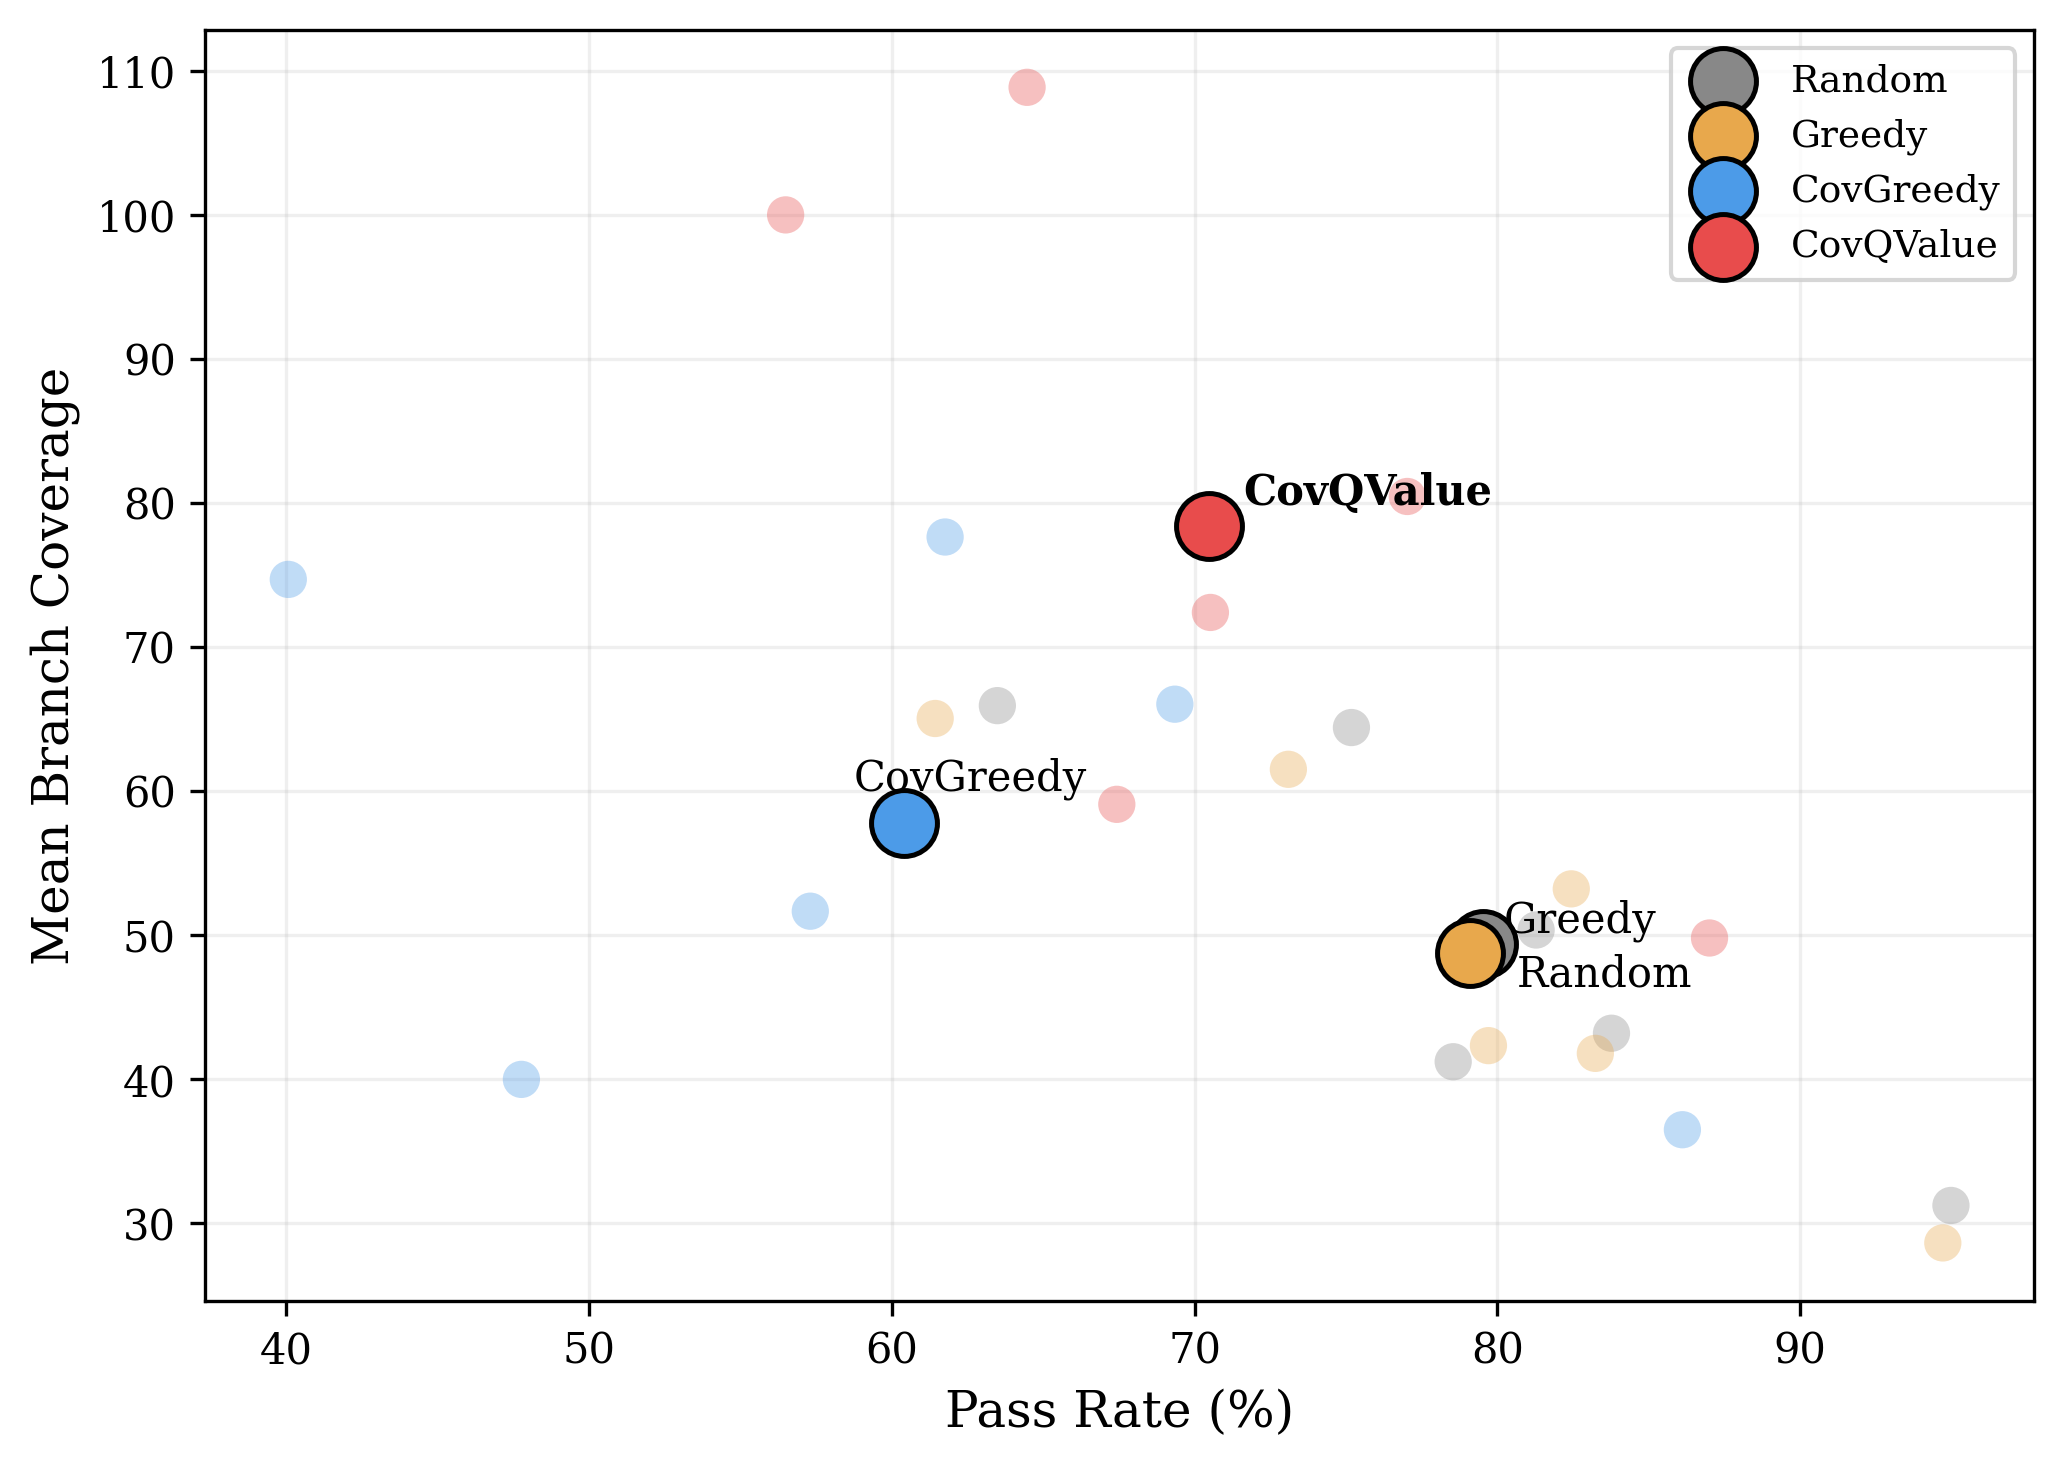
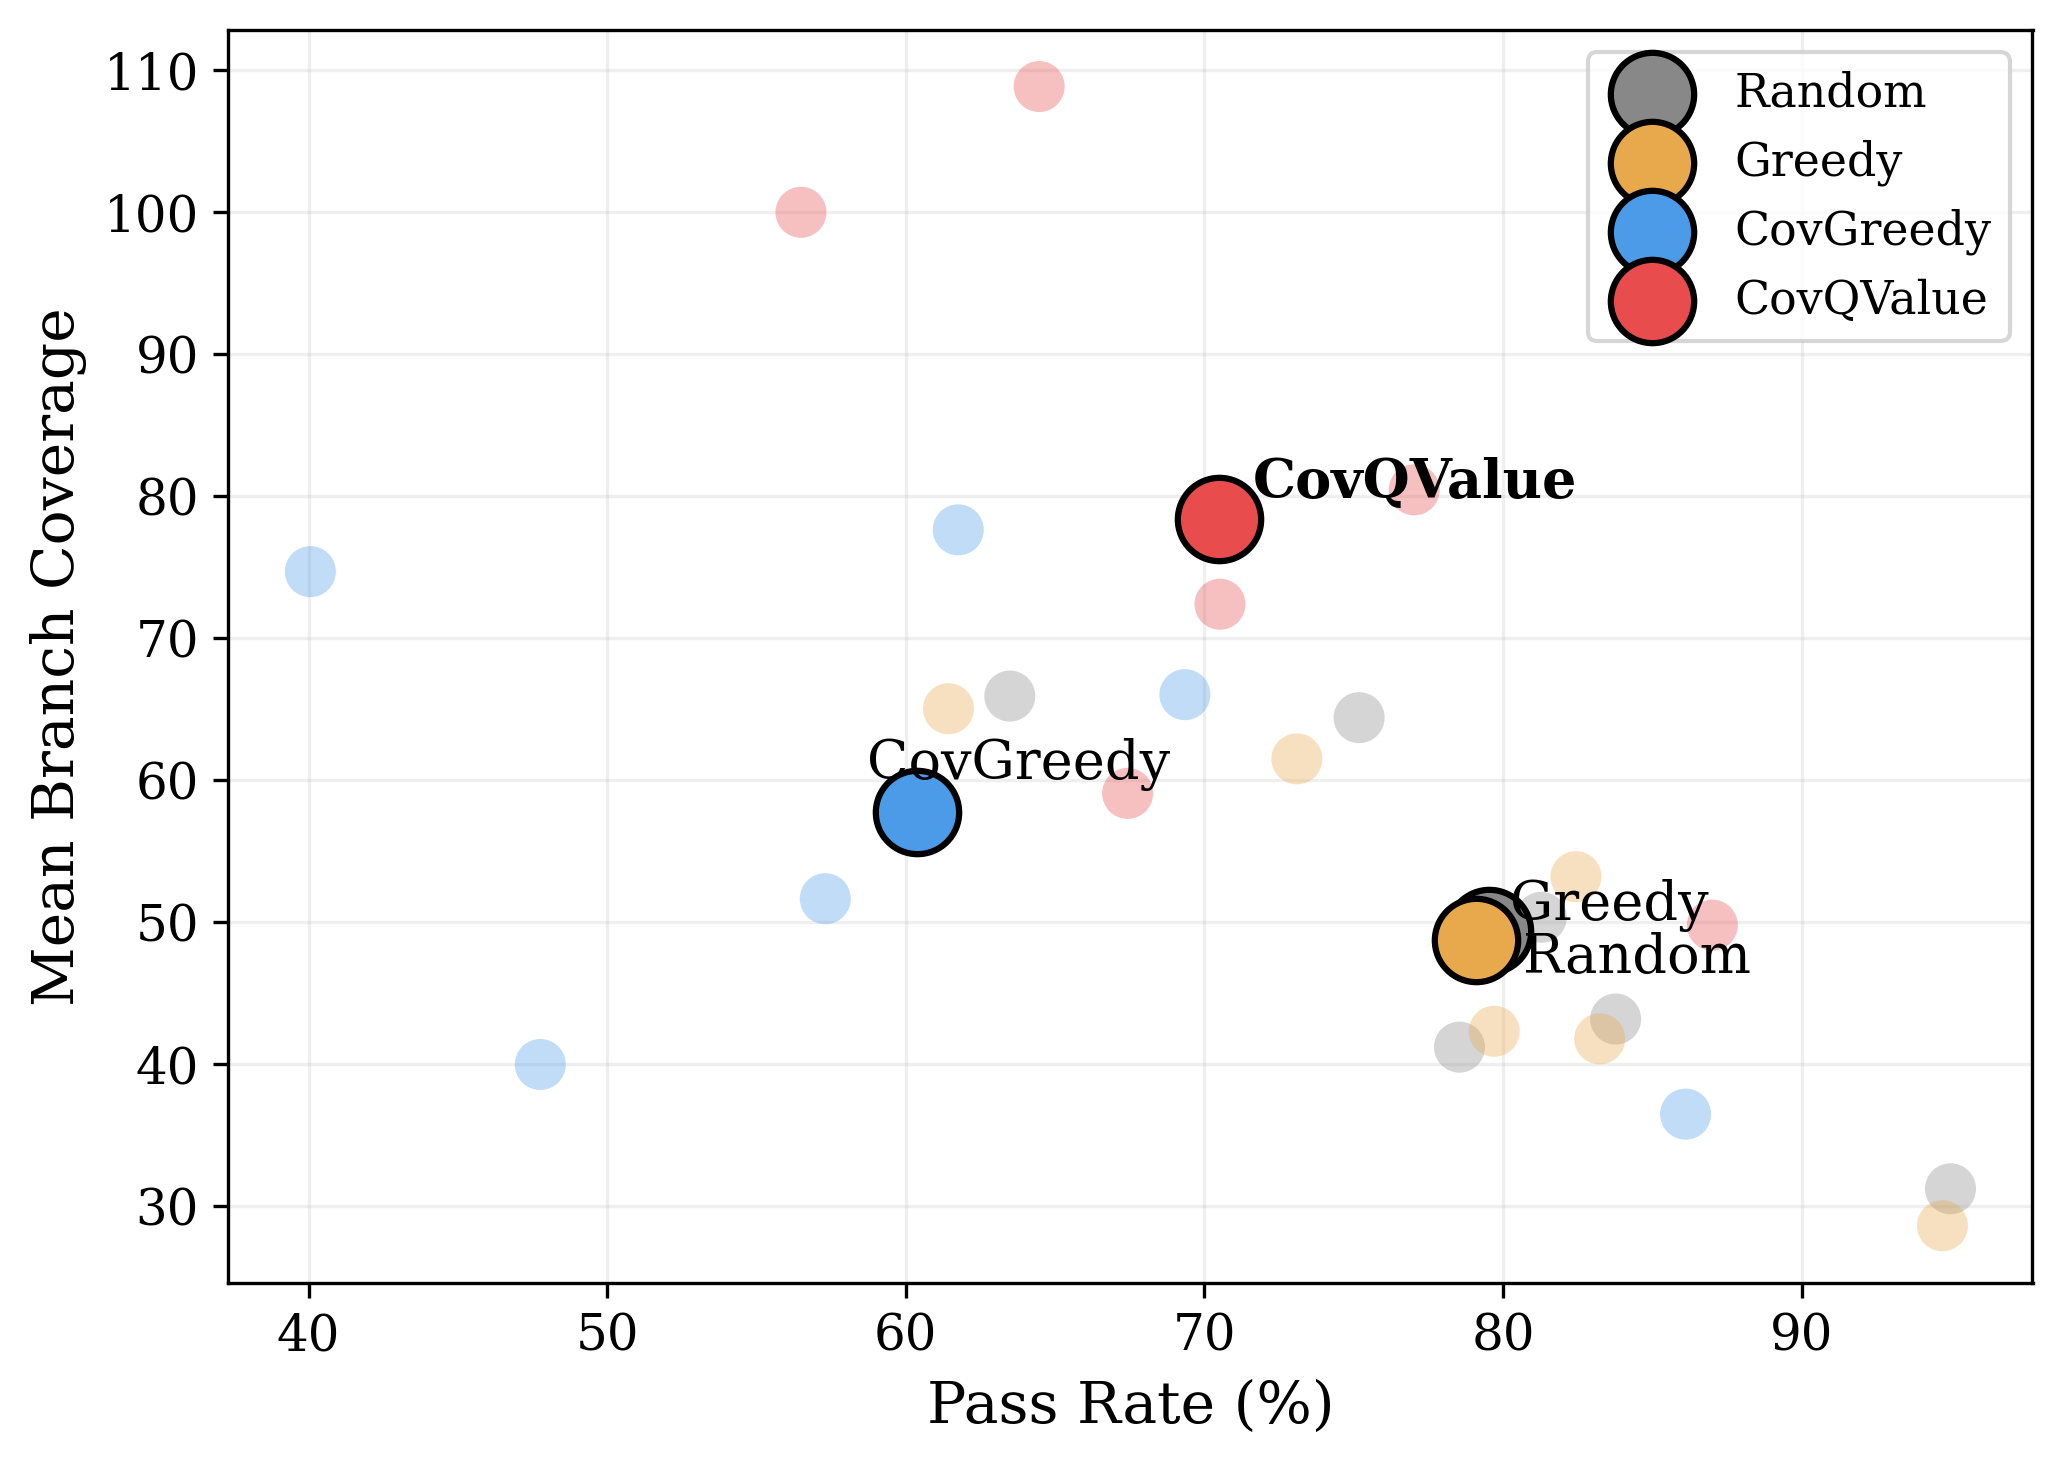
Fig4: larger dots and fonts for 50% text width display

diff --git a/plots/paper_figures.py b/plots/paper_figures.py
@@ -277,7 +277,7 @@ def fig_pass_rate_vs_coverage(data):
 
                 # Small transparent dot
                 ax.scatter(mean_pr, mean_br, color=STRATEGY_COLORS[s],
-                          s=80, alpha=0.35, edgecolors="none", zorder=2)
+                          s=150, alpha=0.35, edgecolors="none", zorder=2)
 
     # Grand mean per strategy: large opaque dot with label
     label_offsets = {
@@ -292,17 +292,18 @@ def fig_pass_rate_vs_coverage(data):
         mean_pr = np.mean(grand[s]["pr"])
         mean_br = np.mean(grand[s]["br"])
         ax.scatter(mean_pr, mean_br, color=STRATEGY_COLORS[s],
-                  s=250, alpha=1.0, edgecolors="black", linewidths=1.2,
+                  s=400, alpha=1.0, edgecolors="black", linewidths=1.5,
                   zorder=4, label=STRATEGY_LABELS[s])
         ax.annotate(STRATEGY_LABELS[s], (mean_pr, mean_br),
                    textcoords="offset points",
-                   xytext=label_offsets.get(s, (8, 5)),
-                   fontsize=10, fontweight="bold" if s == "cov_qvalue" else "normal",
+                   xytext=label_offsets.get(s, (10, 6)),
+                   fontsize=13, fontweight="bold" if s == "cov_qvalue" else "normal",
                    zorder=5)
 
-    ax.set_xlabel("Pass Rate (%)")
-    ax.set_ylabel("Mean Branch Coverage")
-    ax.legend(loc="upper right", fontsize=9)
+    ax.set_xlabel("Pass Rate (%)", fontsize=14)
+    ax.set_ylabel("Mean Branch Coverage", fontsize=14)
+    ax.tick_params(labelsize=12)
+    ax.legend(loc="upper right", fontsize=11)
     ax.grid(True, alpha=0.2)
 
     plt.tight_layout()
